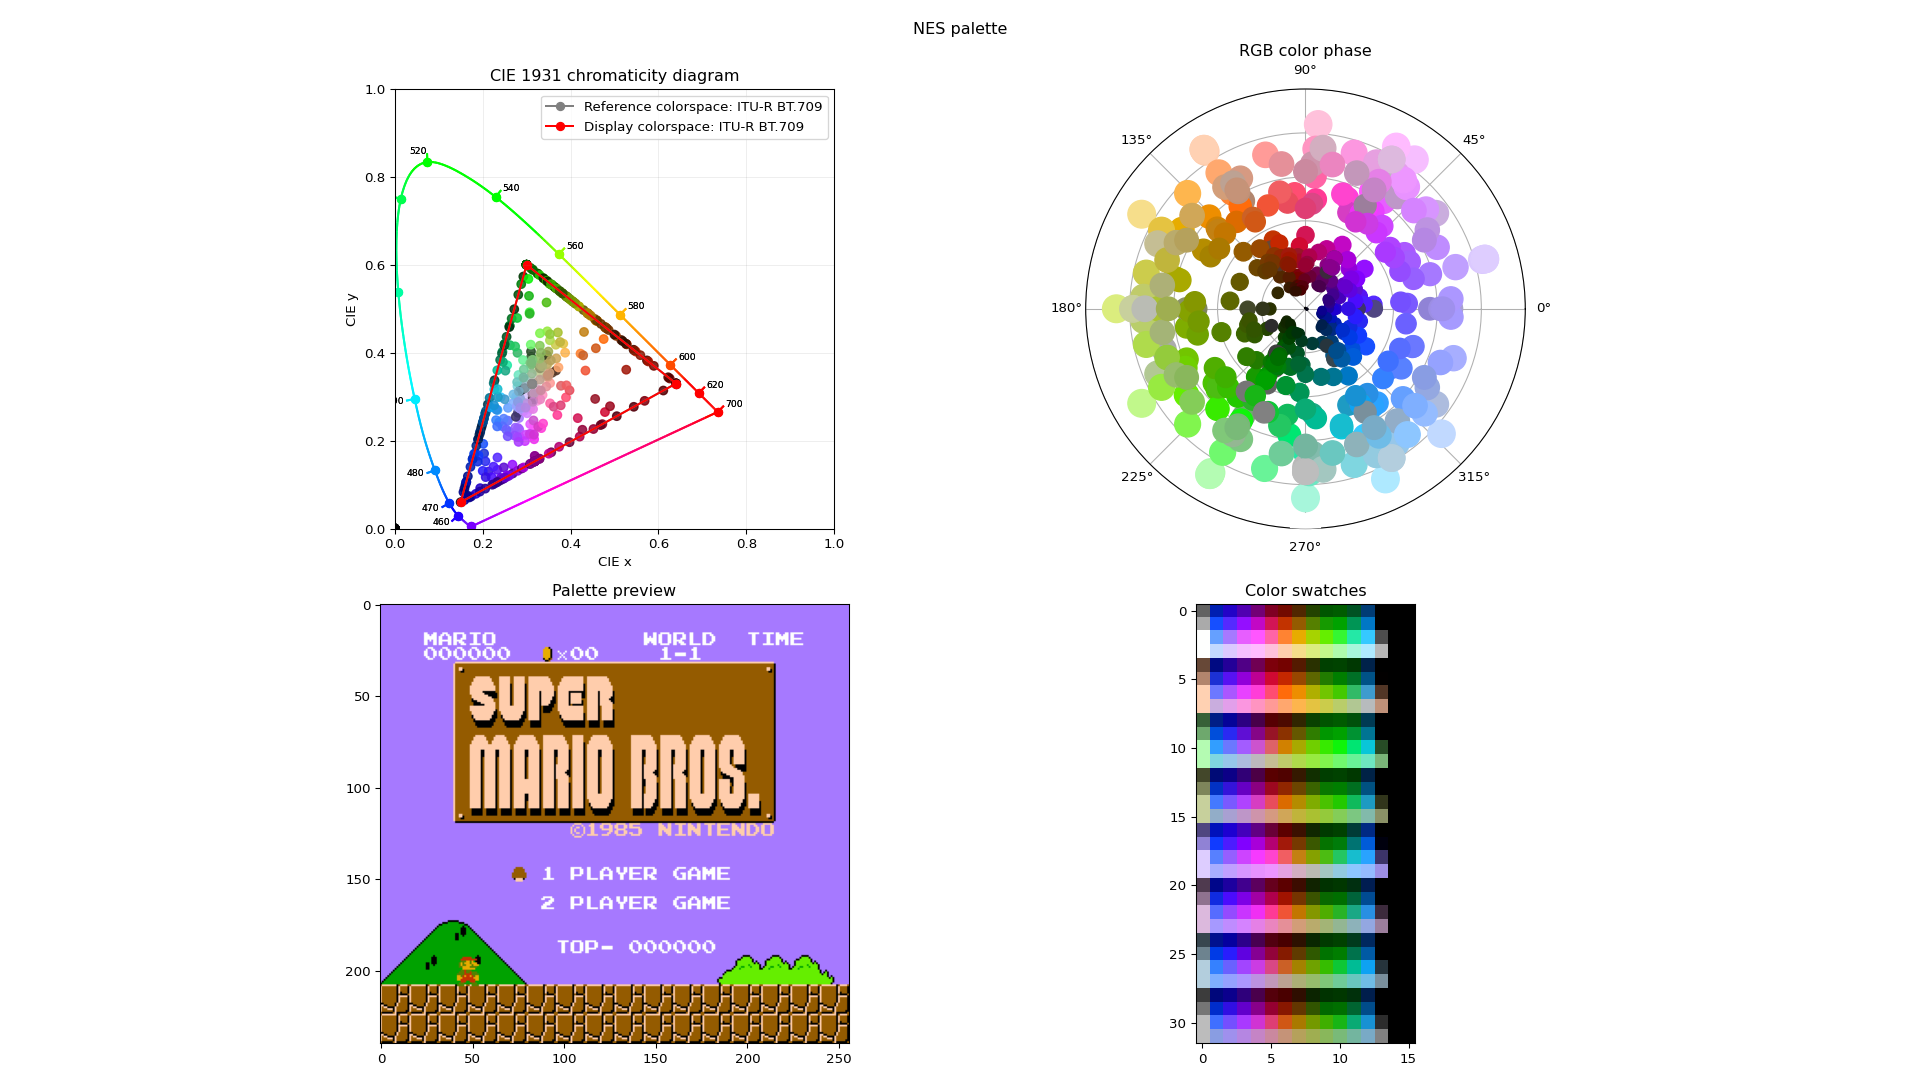
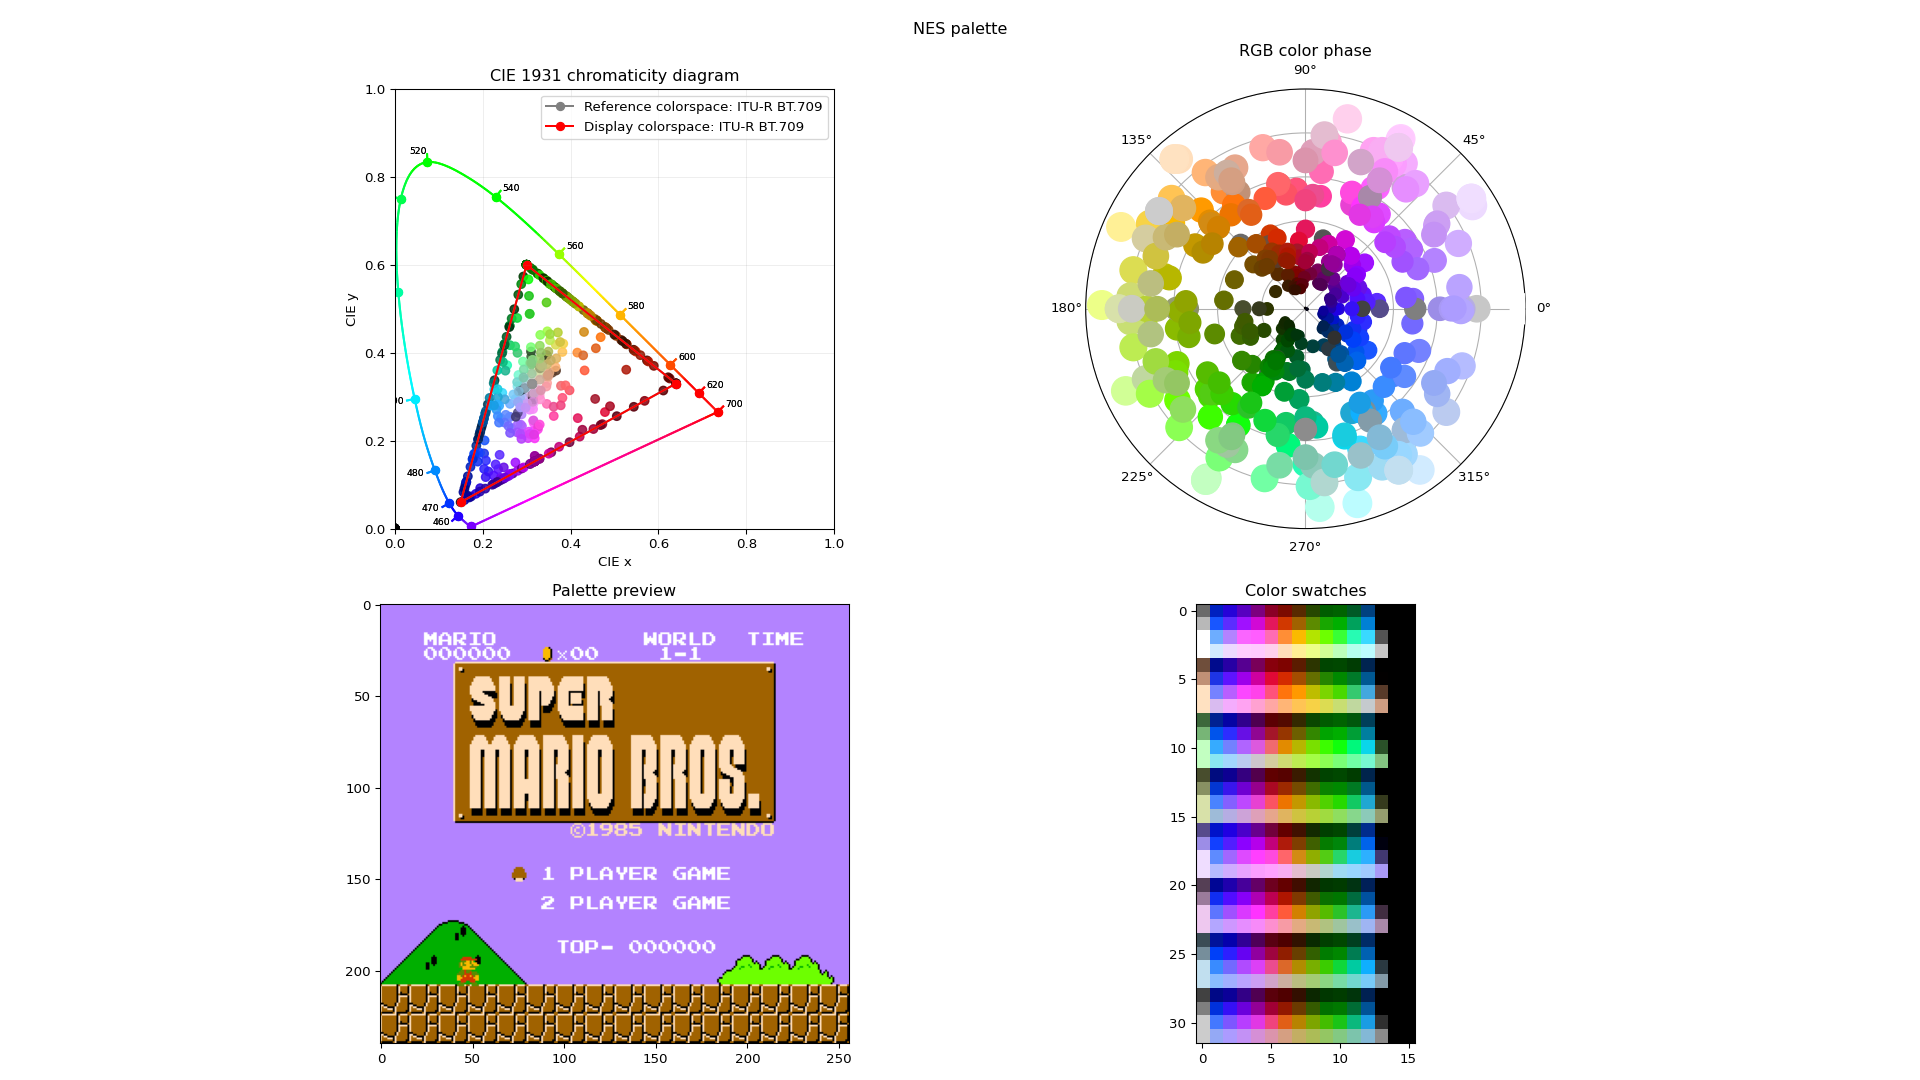
Use IRE when decoding composite to YUV

Changed region(s): [[0.5625, 0.0917, 0.7812, 0.4889], [0.25, 0.3667, 0.3125, 0.4278]]

diff --git a/palgen-persune.py b/palgen-persune.py
@@ -1,5 +1,5 @@
 # palgen NES
-# Copyright (C) 2023 Persune
+# Copyright (C) 2024 Persune
 # inspired by PalGen, Copyright (C) 2018 DragWx <https://github.com/DragWx>
 # testing out the concepts from https://www.nesdev.org/wiki/NTSC_video#Composite_decoding
 #
@@ -26,7 +26,7 @@ import colour.plotting.diagrams
 def parse_argv(argv):
     parser=argparse.ArgumentParser(
         description="yet another NES palette generator",
-        epilog="version 0.9.2")
+        epilog="version 0.10.0")
     # output options
     parser.add_argument(
         "-d",
@@ -126,13 +126,13 @@ def parse_argv(argv):
         "-bri",
         "--brightness",
         type = np.float64,
-        help = "brightness delta, -1.0 to 1.0, default = 0.0",
+        help = "brightness delta in IRE units, -1.0 to 1.0, default = 0.0",
         default = 0.0)
     parser.add_argument(
         "-con",
         "--contrast",
         type = np.float64,
-        help = "contrast delta, 0.0 to 1.0, default = 0.0",
+        help = "contrast delta in IRE units, 0.0 to 1.0, default = 0.0",
         default = 0.0)
     parser.add_argument(
         "-hue",
@@ -150,12 +150,12 @@ def parse_argv(argv):
         "-blp",
         "--black-point",
         type = np.float64,
-        help = "black point, in voltage units relative to blanking, default = (lowest signal level)")
+        help = "black point, in IRE units, default = 0 IRE")
     parser.add_argument(
         "-whp",
         "--white-point",
         type = np.float64,
-        help = "white point, in voltage units relative to blanking, default = (highest signal level)")
+        help = "white point, in IRE units, default = level $20")
 
     # analog distortion effects options
     parser.add_argument(
@@ -403,38 +403,37 @@ def composite_QAM_plot(voltage_buffer,
     axV = fig.add_subplot(gs[2,0])
     ax1 = fig.add_subplot(gs[:,1], projection='polar')
     fig.suptitle("QAM demodulating ${0:02X} emphasis {1:03b}".format((luma<<4 | hue), emphasis))
-    w = voltage_buffer
     x = np.arange(0,12)
     Y_avg = np.average(voltage_buffer)
     U_avg = np.average(U_buffer)
     V_avg = np.average(V_buffer)
     
-    range_axis = (signal_white_point / (signal_white_point - signal_black_point)) - signal_black_point
+    range_axis = ((signal_white_point / (signal_white_point - signal_black_point)) - signal_black_point) * 140
     axY.set_title("Y decoding")
-    axY.set_ylabel("value")
-    axY.axis([0, 12, 0, range_axis])
+    axY.set_ylabel("IRE")
+    axY.axis([0, 12, -50, range_axis])
     axY.plot(x, voltage_buffer, 'o-', linewidth=0.7, label='composite signal')
     axY.plot(x, np.full((12), Y_avg), 'o-', linewidth=0.7, label='Y value = {:< z.3f}'.format(Y_avg))
     axY.legend(loc='lower right')
     
     axU.set_title("U decoding")
-    axU.set_ylabel("value")
-    axU.axis([0, 12, -2*range_axis, 2*range_axis])
+    axU.set_ylabel("IRE")
+    axU.axis([0, 12, -range_axis, range_axis])
     axU.plot(x, U_buffer, 'o-', linewidth=0.7, label='demodulated U signal')
     axU.plot(x, np.full((12), U_avg), 'o-', linewidth=0.7, label='U value = {:< z.3f}'.format(U_avg))
     axU.legend(loc='lower right')
     
     axV.set_title("V decoding")
-    axV.set_ylabel("value")
-    axV.axis([0, 12, -2*range_axis, 2*range_axis])
+    axV.set_ylabel("IRE")
+    axV.axis([0, 12, -range_axis, range_axis])
     axV.plot(x, V_buffer, 'o-', linewidth=0.7, label='demodulated V signal')
     axV.plot(x, np.full((12), V_avg), 'o-', linewidth=0.7, label='V value = {:< z.3f}'.format(V_avg))
     axV.legend(loc='lower right')
     
     color_theta = np.arctan2(V_avg, U_avg)
     color_r =  np.sqrt(U_avg**2 + V_avg**2)
-    ax1.axis([0, 2*np.pi, 0, 0.6])
-    ax1.set_title("Phasor plot")
+    ax1.axis([0, 2*np.pi, 0, 60])
+    ax1.set_title("UV Phasor plot")
     ax1.scatter(color_theta, color_r)
     ax1.vlines(color_theta, 0, color_r)
     
@@ -453,9 +452,9 @@ def composite_waveform_plot(voltage_buffer, emphasis, luma, hue, sequence_counte
     ax = fig.subplots()
     x = np.arange(0,12)
     y = voltage_buffer
-    ax.axis([0, 12, 0, 1.5])
+    ax.axis([0, 12, -50, 140])
     ax.set_xlabel("Sample count")
-    ax.set_ylabel("Voltage")
+    ax.set_ylabel("IRE")
     ax.plot(x, y, 'o-', linewidth=0.7)
     
     fig.set_size_inches(16, 9)
@@ -507,10 +506,12 @@ def color_clip_desaturate(RGB_buffer):
     return RGB_buffer
 
 # B-Y and R-Y reduction factors
+# S170m-2004.pdf: Composite Analog Video Signal NTSC for Studio Applications. Page 16.
 BY_rf = 0.492111
 RY_rf = 0.877283
 
 # derived from the NTSC base matrix of luminance and color-difference
+# S170m-2004.pdf: Composite Analog Video Signal NTSC for Studio Applications. Page 4.
 RGB_to_YUV = np.array([
     [ 0.299,        0.587,        0.114],
     [-0.299*BY_rf, -0.587*BY_rf,  0.886*BY_rf],
@@ -544,9 +545,10 @@ def pixel_codec_composite(RGB_buffer, args=None, signal_black_point=None, signal
     # used for image sequence plotting
     sequence_counter = 0
 
-    colorburst_phase = 8
     if (args.ppu == "2C07"):
-        colorburst_phase += 0.5
+        colorburst_phase = 8.5
+    else:
+        colorburst_phase = 8
     # due to the way the waveform is encoded, the hue is off by 1/2 of a sample
     colorburst_offset = colorburst_phase - 6 - 0.5
 
@@ -624,28 +626,34 @@ def pixel_codec_composite(RGB_buffer, args=None, signal_black_point=None, signal
                 # luma pedestal 7.5 is already accounted for during normalization
                 
                 # we use RGB_buffer[] as a temporary buffer for YUV
+                
+                # shift blanking to 0
+                voltage_buffer -= signal_table_composite[1, 1, 0]
+                
+                # convert to IRE
+                voltage_buffer *= 140
 
                 # decode Y
-                RGB_buffer[emphasis, luma, hue, 0] = np.average(voltage_buffer) + emphasis_row_luma
+                RGB_buffer[emphasis, luma, hue, 0] = (np.average(voltage_buffer) + emphasis_row_luma) / 0.925
 
                 # decode U
                 for t in range(12):
-                    U_buffer[t] = voltage_buffer[t] * 2 * np.sin(
+                    U_buffer[t] = (voltage_buffer[t] - np.average(voltage_buffer) ) * 2 * np.sin(
                         2 * np.pi / 12 * (t + colorburst_offset) +
                         np.radians(
                             args.hue + antiemphasis_column_chroma -
                             (args.phase_skew * luma))
-                    )
+                    ) / 0.925
                 RGB_buffer[emphasis, luma, hue, 1] = np.average(U_buffer) * (args.saturation + 1)
 
                 # decode V
                 for t in range(12):
-                    V_buffer[t] = voltage_buffer[t] * 2 * np.cos(
+                    V_buffer[t] = (voltage_buffer[t] - np.average(voltage_buffer)) * 2 * np.cos(
                         2 * np.pi / 12 * (t + colorburst_offset) +
                         np.radians(
                             args.hue + antiemphasis_column_chroma -
                             (args.phase_skew * luma))
-                    )
+                    ) / 0.925
                 RGB_buffer[emphasis, luma, hue, 2] = np.average(V_buffer) * (args.saturation + 1)
 
                 # decode YUV to RGB
@@ -674,7 +682,7 @@ def rgb_oct_triplet_to_float_array(signal_triplet, emphasis):
     blue = ((signal_triplet & 0x00F)) if not (emphasis & 0b100) else 7
     return np.array([red, green, blue], np.float64)
 
-def pixel_codec_rgb(RGB_buffer, args=None):
+def pixel_codec_rgb(RGB_buffer, args=None, signal_black_point=None, signal_white_point=None):
     signal_table_rgb = np.empty([0x40], np.uint16)
     match args.ppu:
         case "2C04-0000"|"2C04-0001"|"2C04-0002"|"2C04-0003"|"2C04-0004":
@@ -741,11 +749,16 @@ def pixel_codec_rgb(RGB_buffer, args=None):
         for luma in range(4):
             for hue in range(16):
                 color_byte = (luma << 4) | hue
-                # decode voltage buffer to RGB
+
+                # decode palette LUT to RGB
                 RGB_buffer[emphasis, luma, hue] = rgb_oct_triplet_to_float_array(signal_table_rgb[scramble[color_byte]], emphasis) / 7
 
-                # encode RGB to YIQ?
+                # convert to IRE scale so that i don't have to complicate black/white points
+                RGB_buffer[emphasis, luma, hue] *= 100
+
+                # encode RGB to YIQ for hue and saturation adjustment
                 RGB_buffer[emphasis, luma, hue] = np.matmul(RGB_to_YIQ, RGB_buffer[emphasis, luma, hue])
+
                 # Titler functionality
                 if (args.ppu == "2C05-99"):
                     # reduce Q component by half
@@ -1020,7 +1033,7 @@ def main(argv=None):
     # has to be zero'd out for the normalize function to work
     RGB_buffer = np.zeros([8,4,16,3], np.float64)
     signal_black_point = 0
-    signal_white_point = 1
+    signal_white_point = 100
 
     # generate color!
     match args.ppu:
@@ -1028,25 +1041,19 @@ def main(argv=None):
             # signal buffer normalization
             if (args.black_point is not None):
                 signal_black_point = args.black_point
-            else:
-                signal_black_point = 0
 
             if (args.white_point is not None):
-                signal_white_point = 1 + args.white_point
-            else:
-                signal_white_point = 1
-            RGB_buffer = pixel_codec_rgb(RGB_buffer, args)
+                signal_white_point = args.white_point
+            RGB_buffer = pixel_codec_rgb(RGB_buffer, args, signal_black_point, signal_white_point)
         case "2C02"|"2C07":
             # signal buffer normalization
             if (args.black_point is not None):
-                signal_black_point = signal_table_composite[1, 1, 0] + args.black_point
-            else:
-                signal_black_point = signal_table_composite[1, 1, 0]
+                signal_black_point = args.black_point
 
             if (args.white_point is not None):
-                signal_white_point = signal_table_composite[1, 1, 0] + args.white_point
+                signal_white_point = args.white_point
             else:
-                signal_white_point = signal_table_composite[3, 0, 0]
+                signal_white_point = 140 * (signal_table_composite[3, 0, 0] - signal_table_composite[1, 1, 0])
             RGB_buffer = pixel_codec_composite(RGB_buffer, args, signal_black_point, signal_white_point)
 
     # reshape buffer after encoding
@@ -1056,6 +1063,7 @@ def main(argv=None):
         RGB_buffer = np.reshape(RGB_buffer,(4, 16, 3))
 
     # apply black and white points, brightness, and contrast
+    # this also scales the values back roughly within range of 0 to 1
     RGB_buffer -= signal_black_point
     RGB_buffer /= (signal_white_point - signal_black_point)
     RGB_buffer += args.brightness

diff --git a/README.md b/README.md
@@ -71,18 +71,17 @@ options:
   -c {darken,desaturate}, --clip {darken,desaturate}
                         clips out-of-gamut RGB colors
   -bri BRIGHTNESS, --brightness BRIGHTNESS
-                        brightness delta, -1.0 to 1.0, default = 0.0
+                        brightness delta in IRE units, -1.0 to 1.0, default =
+                        0.0
   -con CONTRAST, --contrast CONTRAST
-                        contrast delta, 0.0 to 1.0, default = 0.0
+                        contrast delta in IRE units, 0.0 to 1.0, default = 0.0
   -hue HUE, --hue HUE   hue angle delta, in degrees, default = 0.0
   -sat SATURATION, --saturation SATURATION
                         saturation delta, -1.0 to 1.0, default = 0.0
   -blp BLACK_POINT, --black-point BLACK_POINT
-                        black point, in voltage units relative to blanking,
-                        default = (lowest signal level)
+                        black point, in IRE units, default = 0 IRE
   -whp WHITE_POINT, --white-point WHITE_POINT
-                        white point, in voltage units relative to blanking,
-                        default = (highest signal level)
+                        white point, in IRE units, default = level $20
   -phs PHASE_SKEW, --phase-skew PHASE_SKEW
                         differential phase distortion for composite PPUs, in
                         degrees, default = 0.0
@@ -135,7 +134,7 @@ options:
                         set custom display whitepoint, in CIE xy chromaticity
                         coordinates
 
-version 0.9.2
+version 0.10.0
 ```
 
 ## License
